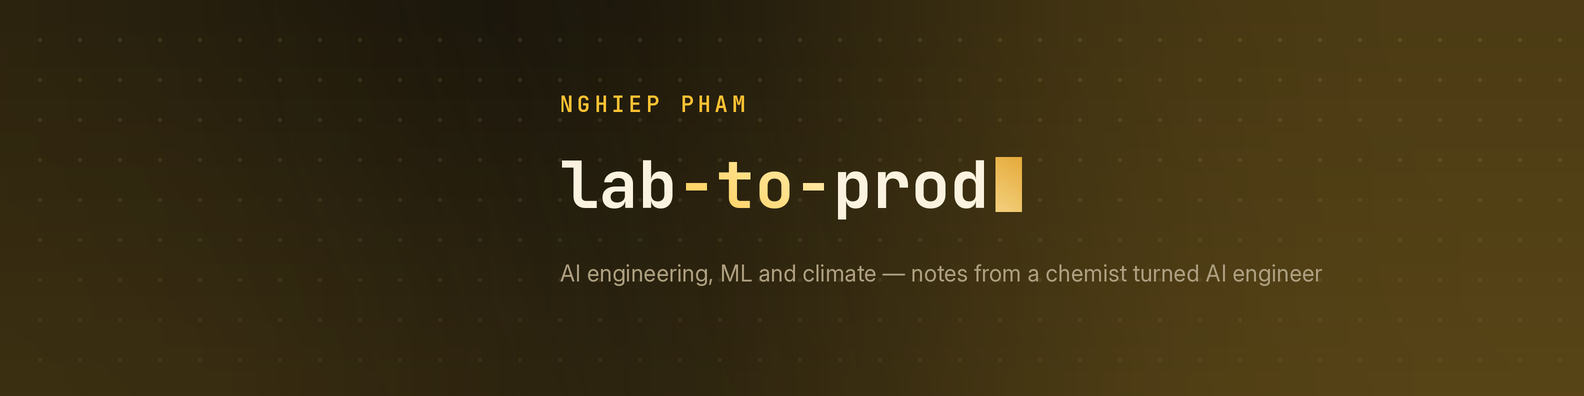
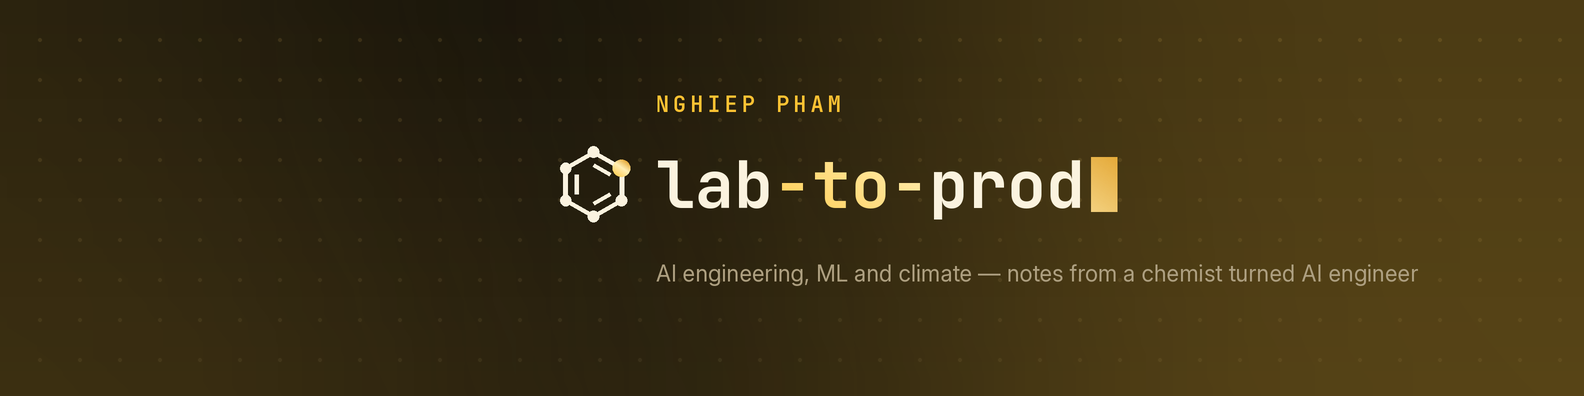
feat: select brand option E with the benzene ring and wordmark lockup
Option E's logo, logo-alt and the LinkedIn, YouTube and Facebook banners now set the
hexagon mark (lit gold node, foil) left of the mono wordmark, sized to 1.6x cap height
and vertically centred. A style flag (lockup: true) keeps other options unchanged.
Banner text stays in the YouTube 1546x423 safe area; tests check the layout.

Changed region(s): [[0.3403, 0.3636, 0.7115, 0.5758], [0.3403, 0.6667, 0.8971, 0.7273], [0.3403, 0.2424, 0.5568, 0.303]]

diff --git a/brand/build.py b/brand/build.py
@@ -9,13 +9,15 @@ a preview sheet. Nothing here is drawn by hand, so a palette change is one edit.
 
 An option's `style` picks the mark, the wordmark and the background texture. With `gloss: true`
 backgrounds get a gradient and soft light, accents are drawn as metallic foil (the theme's
-`foil` colours), and panels get a shadow and a sheen.
+`foil` colours), and panels get a shadow and a sheen. With `lockup: true` the logo and the
+banners set the mark to the left of the wordmark (avatars stay mark only).
 """
 from __future__ import annotations
 
 import math
 import sys
 from contextlib import contextmanager
+from functools import lru_cache
 from pathlib import Path
 
 import yaml
@@ -210,7 +212,7 @@ def _foil(c: Canvas) -> bool:
 
 # ---------------------------------------------------------------- marks
 
-def mark_arrow(c: Canvas, cx, cy, size, fg, accent):
+def mark_arrow(c: Canvas, cx, cy, size, fg, accent, weight=1.0):
     """L, a reaction arrow, P. Reads as 'Lab yields Prod'."""
     f = font("Fraunces", size * 0.62 * SS, 600)
     gap = size * 0.34
@@ -220,22 +222,25 @@ def mark_arrow(c: Canvas, cx, cy, size, fg, accent):
         c.arrow(cx - gap * 0.72, cx + gap * 0.72, cy + size * 0.03, accent, size * (0.045 if _foil(c) else 0.035))
 
 
-def mark_hexagon(c: Canvas, cx, cy, size, fg, accent):
-    """A benzene-like hexagon whose vertices are nodes, one lit: lab ring, prod graph."""
+def mark_hexagon(c: Canvas, cx, cy, size, fg, accent, weight=1.0):
+    """A benzene-like hexagon whose vertices are nodes, one lit: lab ring, prod graph.
+
+    `weight` thickens strokes and nodes, so the ring holds its own next to a bold wordmark.
+    """
     r = size * 0.36
     pts = hexagon(cx, cy, r)
-    c.polygon(pts, outline=fg, width=size * 0.035)
-    inner = hexagon(cx, cy, r * 0.62)
+    c.polygon(pts, outline=fg, width=size * 0.035 * weight)
+    inner = hexagon(cx, cy, r * (0.62 - 0.03 * (weight - 1)))
     for i in (0, 2, 4):
-        c.line([inner[i], inner[(i + 1) % 6]], fg, size * 0.03)
+        c.line([inner[i], inner[(i + 1) % 6]], fg, size * 0.03 * weight)
     for i, p in enumerate(pts):
         if i != 5:
-            c.circle(p, size * 0.045, fg)
+            c.circle(p, size * 0.045 * (1 + (weight - 1) * 0.6), fg)
     with c.accent():
-        c.circle(pts[5], size * (0.075 if _foil(c) else 0.06), accent)
+        c.circle(pts[5], size * (0.075 if _foil(c) else 0.06) * (1 + (weight - 1) * 0.4), accent)
 
 
-def mark_badge(c: Canvas, cx, cy, size, fg, accent):
+def mark_badge(c: Canvas, cx, cy, size, fg, accent, weight=1.0):
     """A glossy yellow rounded square holding L, an arrow and P in black."""
     t = c.theme or {}
     ink = "#0B0B0A"
@@ -312,8 +317,61 @@ def wordmark_pill(c: Canvas, x, y, size, fg, accent, anchor="l"):
 
 MARKS = {"arrow": mark_arrow, "hexagon": mark_hexagon, "badge": mark_badge}
 WORDMARKS = {"arrow": wordmark_arrow, "mono": wordmark_mono, "pill": wordmark_pill}
+WORDMARK_FONT = {"arrow": ("Fraunces", 600), "mono": ("JetBrainsMono", 700), "pill": ("SpaceGrotesk", 700)}
 OPT = {key: {"mark": MARKS[opt["style"]["mark"]], "wordmark": WORDMARKS[opt["style"]["wordmark"]], **opt["fonts"]}
        for key, opt in CFG["options"].items()}
+
+
+# ---------------------------------------------------------------- lockup: mark left of the wordmark
+
+LOCKUP_MARK = 1.6   # mark ink height / wordmark cap height
+LOCKUP_GAP = 0.42   # space between the mark ink and the wordmark, in wordmark font sizes
+LOCKUP_WEIGHT = 1.7  # mark stroke weight next to the bold wordmark (hexagon only; other marks ignore it)
+
+
+def _ink_box(draw, w: int, h: int) -> tuple[float, float, float, float]:
+    """Bounding box (final pixels) of what `draw(canvas)` puts on an empty canvas."""
+    c = Canvas(w, h, None)
+    draw(c)
+    box = c.im.getchannel("A").getbbox()
+    return tuple(v / SS for v in box)
+
+
+@lru_cache(maxsize=None)
+def _mark_ink(key: str, ref: int) -> tuple[float, float, float, float]:
+    """Ink box of the option's mark drawn at size `ref`, centred at (ref, ref)."""
+    return _ink_box(lambda c: OPT[key]["mark"](c, ref, ref, ref, "#000000", "#000000", LOCKUP_WEIGHT), 2 * ref, 2 * ref)
+
+
+def wordmark_width(key: str, size: float) -> float:
+    return OPT[key]["wordmark"](Canvas(1, 1, None), 0, 0, size, "#000000", "#000000")
+
+
+def lockup_geometry(key: str, size: float) -> dict:
+    """Where the mark goes for a wordmark of font size `size` whose left edge is at x = 0.
+
+    mark: the size argument for the mark function; cx, dy: its centre (dy from the wordmark's
+    vertical centre); lead: where the wordmark starts; width: the whole lockup.
+    """
+    fname, weight = WORDMARK_FONT[style(key)["wordmark"]]
+    l, t, r, b = font(fname, 1000 * SS, weight).getbbox("H")
+    cap = (b - t) / 1000 / SS * size
+    ref = 1000
+    x0, y0, x1, y1 = _mark_ink(key, ref)
+    mark = LOCKUP_MARK * cap / ((y1 - y0) / ref)
+    k = mark / ref
+    lead = (x1 - x0) * k + LOCKUP_GAP * size
+    return {"mark": mark, "cx": (ref - x0) * k, "dy": (ref - (y0 + y1) / 2) * k, "lead": lead,
+            "width": lead + wordmark_width(key, size)}
+
+
+def lockup(c: Canvas, key: str, x, y, size, fg, accent, anchor="l") -> dict:
+    """Draw the mark and the wordmark side by side, vertically centred on y."""
+    g = lockup_geometry(key, size)
+    x = _place(x, g["width"], anchor)
+    OPT[key]["mark"](c, x + g["cx"], y + g["dy"], g["mark"], fg, accent, LOCKUP_WEIGHT)
+    OPT[key]["wordmark"](c, x + g["lead"], y, size, fg, accent, anchor="l")
+    return {**g, "x": x}
 
 
 def texture(c: Canvas, key: str, t: dict):
@@ -367,7 +425,10 @@ def rule(c: Canvas, x0, x1, y, t: dict, key: str):
 def build_logo(key, t, out, suffix=""):
     c = Canvas(1600, 400, None, t)
     size = {"arrow": 170, "mono": 150, "pill": 160}[style(key)["wordmark"]]
-    OPT[key]["wordmark"](c, 800, 200, size, t["fg"], t["accent"], anchor="m")
+    if style(key).get("lockup"):
+        lockup(c, key, 800, 200, size * 0.86, t["fg"], t["accent"], anchor="m")
+    else:
+        OPT[key]["wordmark"](c, 800, 200, size, t["fg"], t["accent"], anchor="m")
     c.save(out / f"logo{suffix}.png")
 
 
@@ -380,6 +441,37 @@ def build_avatar(key, t, out, name="avatar.png"):
         im.resize((640, 640), Image.LANCZOS).save(out / "avatar-telegram.png", optimize=True)
 
 
+def banner_layout(key, box, align="l") -> dict:
+    """Positions of the banner text. box = (x0, y0, x1, y1): the area safe from cropping and overlays.
+
+    Without a lockup the kicker, wordmark and tagline share one x (left edge or centre). With a
+    lockup the mark sits left of the wordmark and the kicker and tagline start where the wordmark
+    starts; when centred, the whole group (mark + text column) is centred in the box.
+    """
+    o = OPT[key]
+    x0, y0, x1, y1 = box
+    bh = y1 - y0
+    wm = bh * {"arrow": 0.30, "mono": 0.25, "pill": 0.27}[style(key)["wordmark"]]
+    tag_f = font(o["body"], bh * 0.088 * SS, 400)
+    small = bh * 0.085
+    lead = lockup_geometry(key, wm)["lead"] if style(key).get("lockup") else 0
+    one_line = Canvas(1, 1, None).width(TAGLINE, tag_f) <= (x1 - x0) - lead
+    tagline = [(TAGLINE, 0.78, "muted")] if one_line else list(zip(TAGLINE.split(" — "), (0.74, 0.88), ("fg", "muted")))
+    lay = {"wm": wm, "small": small, "tag_f": tag_f, "lead": lead, "anchor": "l" if align == "l" or lead else "m",
+           "y_kicker": y0 + bh * 0.13, "y_wm": y0 + bh * 0.44,
+           "tagline": [(s, y0 + bh * f, role) for s, f, role in tagline]}
+    if not lead:
+        lay["x_group"] = lay["x_text"] = x0 if align == "l" else (x0 + x1) / 2
+        return lay
+    m = Canvas(1, 1, None)
+    column = max([wordmark_width(key, wm)] + [m.width(s, tag_f) for s, _, _ in lay["tagline"]])
+    gx = x0 if align == "l" else (x0 + x1) / 2 - (lead + column) / 2
+    lay.update(x_group=gx, x_text=gx + lead, right=gx + lead + column)
+    if gx < x0 - 0.5 or lay["right"] > x1 + 0.5:
+        raise ValueError(f"option {key}: banner lockup ({gx:.0f}..{lay['right']:.0f}) leaves the safe box {box}")
+    return lay
+
+
 def banner(key, t, out, name, w, h, box, align="l"):
     """box = (x0, y0, x1, y1): the area that is safe from cropping and overlays."""
     o = OPT[key]
@@ -389,20 +481,16 @@ def banner(key, t, out, name, w, h, box, align="l"):
     bh = y1 - y0
     if not gloss:
         c.rect([x0 - bh * 0.12, y0, x1 + bh * 0.12, y1], fill=t["bg"])  # quiet patch behind the text
-    wm = bh * {"arrow": 0.30, "mono": 0.25, "pill": 0.27}[style(key)["wordmark"]]
-    small = bh * 0.085
-    x = x0 if align == "l" else (x0 + x1) / 2
-    anchor = "l" if align == "l" else "m"
-    tag_f = font(o["body"], bh * 0.088 * SS, 400)
-    c.text((x, y0 + bh * 0.13), "NGHIEP PHAM", font(o["mono"], small * SS, 600), t["accent"] if gloss else t["muted"],
+    lay = banner_layout(key, box, align)
+    x, anchor, small = lay["x_text"], lay["anchor"], lay["small"]
+    c.text((x, lay["y_kicker"]), "NGHIEP PHAM", font(o["mono"], small * SS, 600), t["accent"] if gloss else t["muted"],
            anchor=anchor + "m", spacing=0 if anchor == "m" else small * 0.18)
-    o["wordmark"](c, x, y0 + bh * 0.44, wm, t["fg"], t["accent"], anchor=anchor)
-    if c.width(TAGLINE, tag_f) <= (x1 - x0):
-        c.text((x, y0 + bh * 0.78), TAGLINE, tag_f, t["muted"], anchor=anchor + "m")
+    if lay["lead"]:
+        lockup(c, key, lay["x_group"], lay["y_wm"], lay["wm"], t["fg"], t["accent"])
     else:
-        head, tail = TAGLINE.split(" — ")
-        c.text((x, y0 + bh * 0.74), head, tag_f, t["fg"], anchor=anchor + "m")
-        c.text((x, y0 + bh * 0.88), tail, tag_f, t["muted"], anchor=anchor + "m")
+        o["wordmark"](c, x, lay["y_wm"], lay["wm"], t["fg"], t["accent"], anchor=anchor)
+    for s, y, role in lay["tagline"]:
+        c.text((x, y), s, lay["tag_f"], t[role], anchor=anchor + "m")
     c.save(out / f"banner-{name}.png")
 
 

diff --git a/tests/test_brand.py b/tests/test_brand.py
@@ -32,3 +32,61 @@ def test_selected_option_and_theme_keys():
             optional = {"bg2", "foil"}  # gradient end and metallic highlight (glossy options C/D/E)
             assert required <= set(theme), required - set(theme)
             assert set(theme) <= required | optional, set(theme) - required - optional
+
+
+def _build():
+    import importlib
+    import sys
+    sys.path.insert(0, str(BRAND))
+    return importlib.import_module("build")
+
+
+# The safe boxes main() passes to banner(): LinkedIn right of the photo, YouTube's 1546x423
+# centre visible on every device, Facebook's centre that phones do not crop.
+BANNER_BOXES = {"linkedin": ((560, 70, 1500, 330), "l"), "youtube": ((507, 509, 2053, 931), "m"),
+                "facebook": ((300, 150, 1340, 474), "m")}
+
+
+def test_lockup_is_a_style_flag_and_only_the_selected_honey_option_uses_it():
+    flagged = {k for k, o in CFG["options"].items() if o["style"].get("lockup")}
+    assert flagged == {"e"}
+    assert CFG["selected"] == "e"
+
+
+@pytest.mark.parametrize("name", sorted(BANNER_BOXES))
+def test_lockup_banners_stay_inside_the_safe_area(name):
+    build = _build()
+    box, align = BANNER_BOXES[name]
+    for key, opt in CFG["options"].items():
+        lay = build.banner_layout(key, box, align)
+        if not opt["style"].get("lockup"):
+            assert lay["lead"] == 0
+            continue
+        assert lay["lead"] > 0
+        assert box[0] <= lay["x_group"] and lay["right"] <= box[2]
+        assert lay["x_text"] == pytest.approx(lay["x_group"] + lay["lead"])
+        if align == "m":   # the group is centred in the box
+            assert (lay["x_group"] + lay["right"]) / 2 == pytest.approx((box[0] + box[2]) / 2)
+
+
+def test_lockup_mark_is_left_of_the_wordmark_and_sized_to_its_cap_height():
+    build = _build()
+    size = 120
+    g = build.lockup_geometry("e", size)
+    f = build.font("JetBrainsMono", 1000 * build.SS, 700)
+    _, top, _, bottom = f.getbbox("H")
+    cap = (bottom - top) / 1000 / build.SS * size
+    x0, y0, x1, y1 = build._mark_ink("e", 1000)
+    k = g["mark"] / 1000
+    assert (y1 - y0) * k == pytest.approx(build.LOCKUP_MARK * cap, rel=1e-3)
+    assert x1 * k - 1000 * k + g["cx"] < g["lead"]   # mark ink ends before the wordmark starts
+    assert g["width"] == pytest.approx(g["lead"] + build.wordmark_width("e", size))
+
+
+def test_lockup_logo_shows_the_mark_left_of_the_wordmark():
+    logo = Image.open(BRAND / "option-e" / "logo.png").getchannel("A")
+    cols = [x for x in range(logo.width) if logo.crop((x, 0, x + 1, logo.height)).getbbox()]
+    gaps = [b - a for a, b in zip(cols, cols[1:]) if b - a > 1]
+    assert max(gaps) >= 40   # a clear gap between ring and text, wider than letter spacing
+    left, right = cols[0], cols[-1]
+    assert abs((left + right) / 2 - logo.width / 2) < 8   # the whole lockup is centred

diff --git a/brand/README.md b/brand/README.md
@@ -3,9 +3,14 @@
 Display name: **Nghiep Pham · Lab to Prod**
 Tagline: *AI engineering, ML and climate — notes from a chemist turned AI engineer*
 
-Two options are built from `brand.yaml` by `build.py`. Open `option-a/preview.png` and
-`option-b/preview.png`, pick one, and set `selected:` in `brand.yaml`. The image and video
-renderers read that key, so the choice is one line.
+Five options (A to E) are built from `brand.yaml` by `build.py`. Each `option-<key>/preview.png`
+shows one on a sheet; `selected:` in `brand.yaml` picks the one the image, video and blog
+renderers use, so the choice is one line. The selected option is **E, Honey**.
+
+Option E uses a lockup (`lockup: true` in its `style`): the logo and every banner set the benzene
+ring, with its one lit gold node, to the left of the `lab-to-prod` wordmark. The ring is about
+1.6 times the wordmark's cap height and vertically centred on it; in banners the "NGHIEP PHAM"
+kicker and the tagline start where the wordmark starts. Avatars stay mark only.
 
 | | Option A: Bench | Option B: Night shift |
 | --- | --- | --- |
